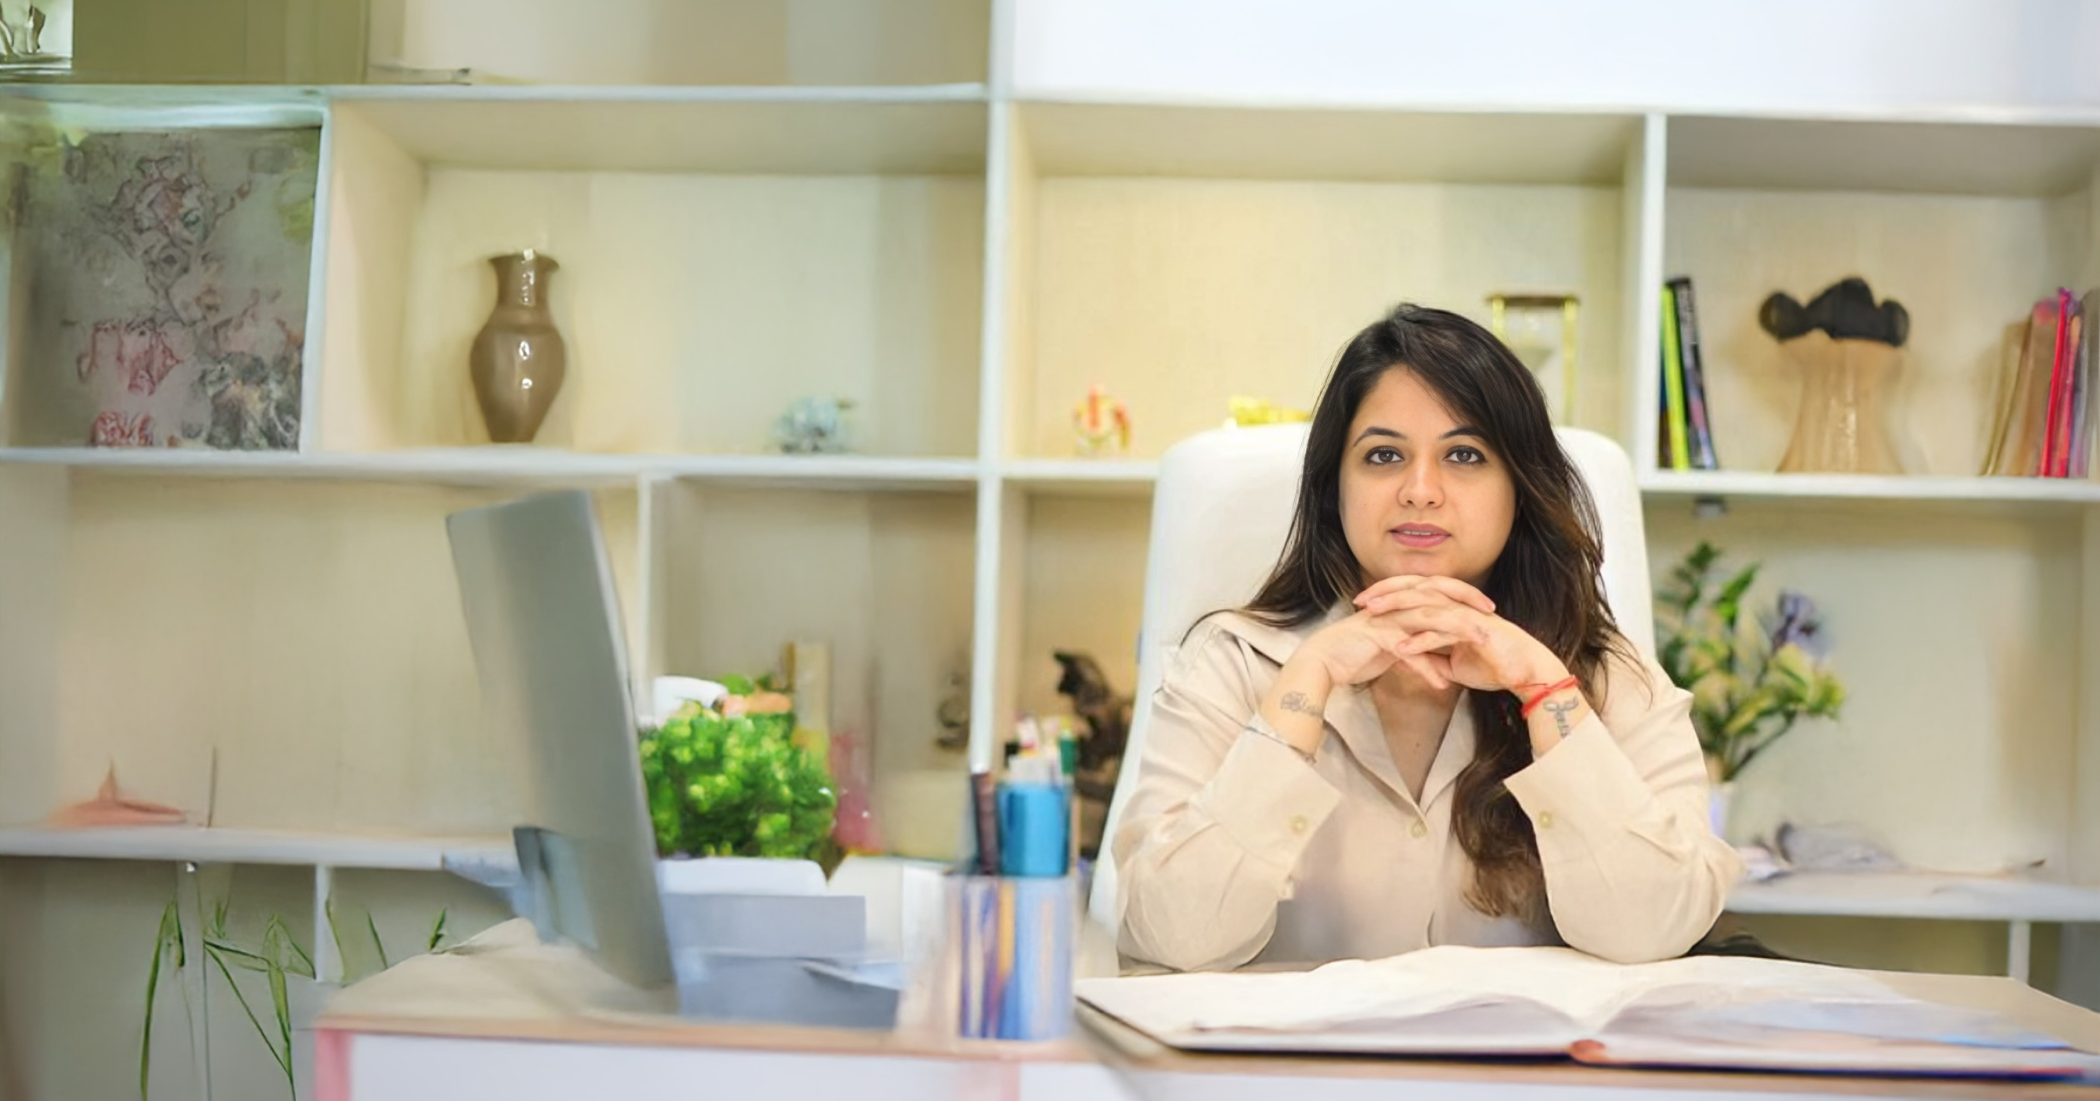
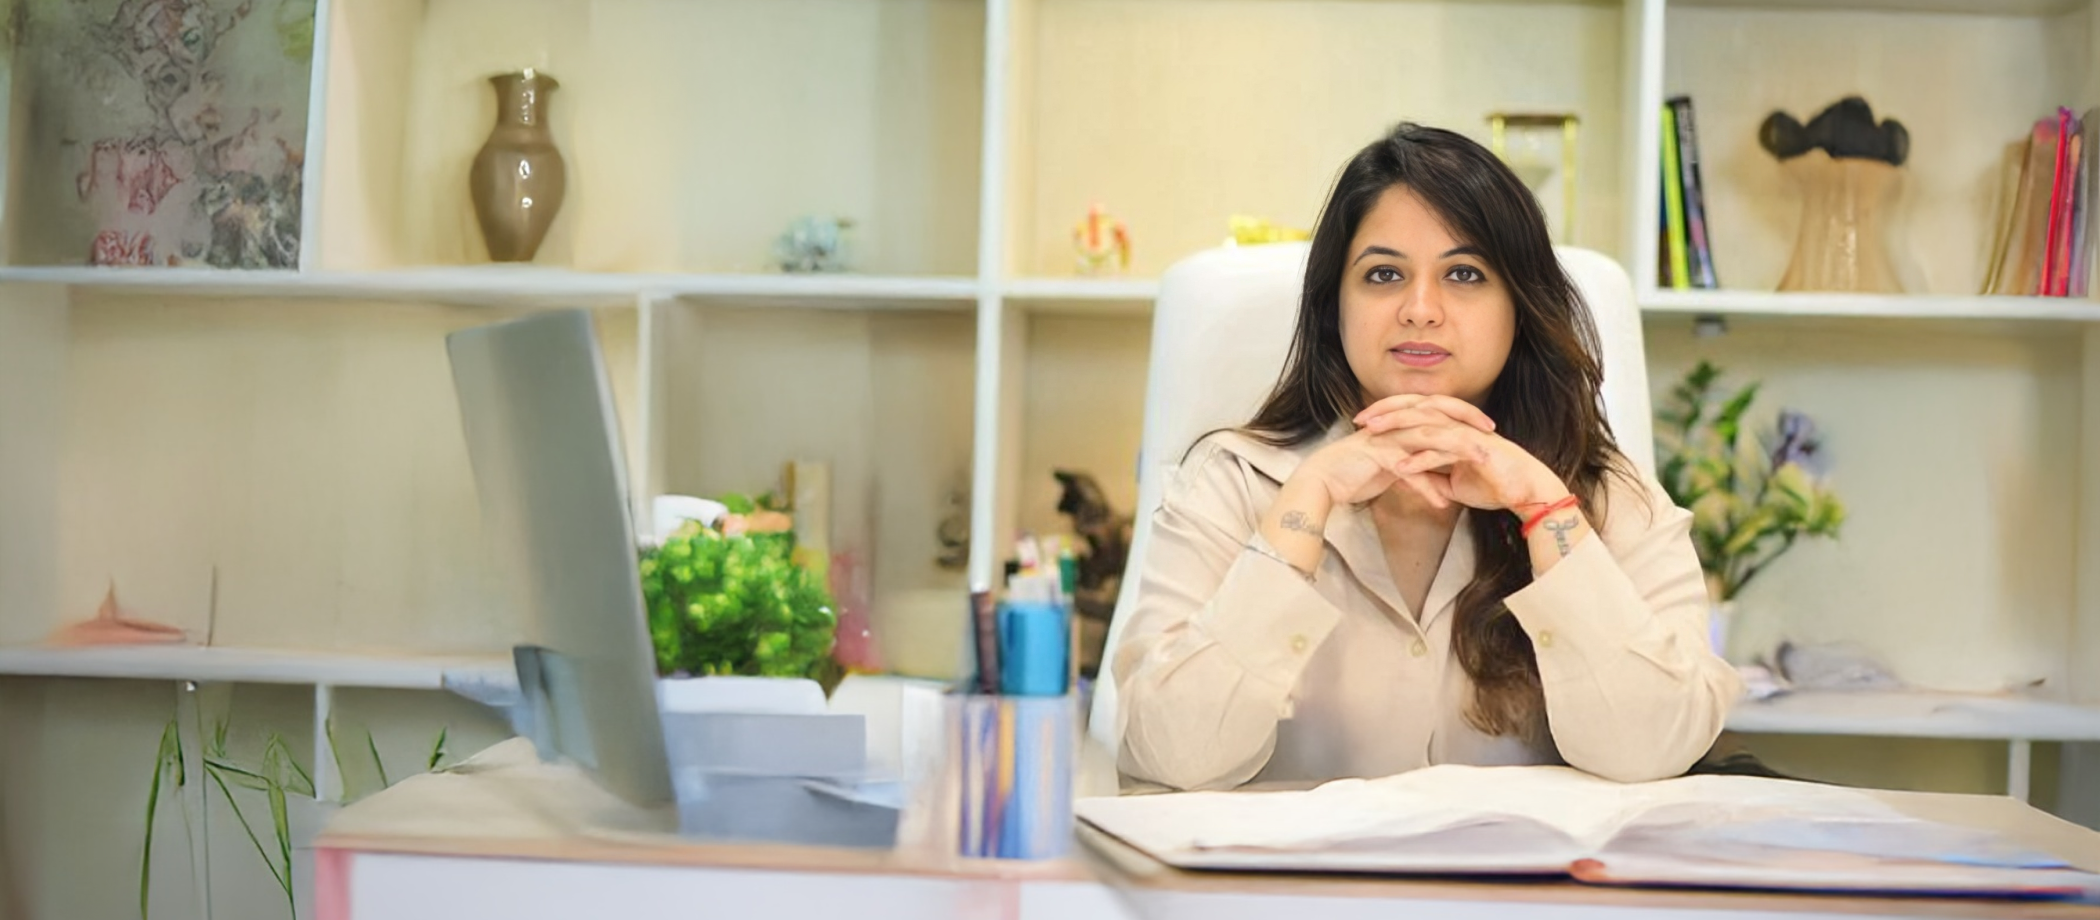
Updated portfolio content

diff --git a/src/app/page.tsx b/src/app/page.tsx
@@ -27,38 +27,54 @@ export default function HomePage() {
       <Header />
       <main className="flex-grow">
 
-        {/* Hero Section */}
-        <section id="home" className="relative h-[80vh] min-h-[600px] w-full text-white">
-          <div className="absolute inset-0 bg-black/50 z-10" />
-            {shayleeHero && (
-                <Image
-                    src={shayleeHero.imageUrl}
-                    alt={shayleeHero.description}
-                    fill
-                    className="object-cover object-center w-full min-h-full"
-                    data-ai-hint={shayleeHero.imageHint}
-                    priority
-                />
-            )}
-          <div className="container relative z-20 flex flex-col items-start justify-center h-full mx-auto px-4 text-left">
-            <div className='flex fex-row space-x-6'>
-              <h1 className="text-4xl md:text-6xl lg:text-7xl font-bold leading-tight font-handwriting mt-2 mb-6">
-             Guiding your 
-            </h1>
-            <h1 className="text-4xl md:text-6xl lg:text-7xl font-bold leading-tight font-handwriting mt-2 mb-6 text-[#cfa34c]">
-             right move.
-            </h1></div>
-            {/* <p className="text-2xl md:text-3xl lg:text-4xl font-handwriting text-accent mt-2 mb-6">
-               Guiding your right move.
-            </p> */}
-            <p className="max-w-xl text-lg text-white/80 mb-10 leading-relaxed">
-              With a decade of experience, I provide clarity and confidence in your property journey. Let's build your future, together.
-            </p>
-            <Button asChild size="lg" className="bg-[#023e2f] text-primary-foreground hover:bg-white/80 hover:text-[#023e2f] group shadow-lg hover:shadow-xl transition-all duration-300 transform hover:scale-105 py-7 px-10 text-lg">
-                <Link href="#contact">Book a Free Consultation <ArrowRight className="ml-2 h-5 w-5 transition-transform group-hover:translate-x-1" /></Link>
-            </Button>
-          </div>
-        </section>
+       {/* Hero Section */}
+<section id="home" className="relative h-[85vh] min-h-[500px] md:h-[80vh] w-full text-white overflow-hidden">
+  {/* The Overlay - Ensuring text is readable on all screen sizes */}
+  <div className="absolute inset-0 bg-black/40 sm:bg-black/50 z-10" />
+  
+  {shayleeHero && (
+    <Image
+      src={shayleeHero.imageUrl}
+      alt={shayleeHero.description}
+      fill
+      priority
+      // 'sizes' tells the browser which image size to download
+      sizes="100vw" 
+      className="object-cover object-[70%_center] md:object-[70%_center] lg:object-center z-0 transition-opacity duration-500"
+      data-ai-hint={shayleeHero.imageHint}
+    />
+  )}
+{/* Container: justify-end moves content to the bottom, items-start keeps it left */}
+  <div className="container relative z-20 flex flex-col items-start justify-end h-full mx-auto px-6 pb-16 md:pb-24 text-left">
+    
+    {/* Headline Stack */}
+    <div className='flex flex-col-2 space-x-2 mb-4 '>
+      <h1 className="text-4xl sm:text-5xl md:text-6xl lg:text-7xl font-bold leading-tight font-handwriting max-[380px]:text-3xl">
+        Guiding your 
+      </h1>
+      <h1 className="text-4xl sm:text-5xl md:text-6xl lg:text-7xl font-bold leading-tight font-handwriting text-[#cfa34c] max-[380px]:text-3xl">
+        right move.
+      </h1>
+    </div>
+
+    {/* Subtext */}
+    <p className="max-w-md md:max-w-xl text-base sm:text-lg text-white/90 mb-8 md:mb-10 leading-tight">
+      With a decade of experience, I provide clarity and confidence in your property journey. Let's build your future, together.
+    </p>
+
+    {/* Button */}
+    <Button 
+      asChild 
+      size="lg" 
+      className="w-full sm:w-auto bg-[#023e2f] text-primary-foreground hover:bg-white/80 hover:text-[#023e2f] group shadow-lg hover:shadow-xl transition-all duration-300 transform hover:scale-105 py-3 md:py-7 px-3 md:px-10 text-lg"
+    >
+      <Link href="#contact" className="flex items-center justify-center">
+        Book a Free Consultation 
+        <ArrowRight className="ml-2 h-5 w-5 transition-transform group-hover:translate-x-1" />
+      </Link>
+    </Button>
+  </div>
+</section>
 
         {/* About Section */}
         <section id="about" className="py-24 bg-secondary/30">
@@ -189,7 +205,7 @@ export default function HomePage() {
             <Card className="max-w-4xl mx-auto p-4 md:p-8 lg:p-12 shadow-2xl bg-background border-border/20">
                 <div className="text-center mb-8">
                     <h2 className="text-3xl md:text-4xl font-bold text-[#023e2f]">Let's Talk Real Estate</h2>
-                    <p className="mt-2 text-sm text-foreground/70 max-w-2xl mx-auto">Ready to make your next move? Fill out the form below or reach out directly. <br />Your journey to the perfect property starts here.</p>
+                    <p className="mt-2 text-sm text-foreground/70 max-w-2xl mx-auto">Ready to make your next move? Fill out the form below or reach out directly. Your journey to the perfect property starts here.</p>
                 </div>
                 <div className="grid md:grid-cols-2 gap-12 items-center">
                     <div>

diff --git a/src/components/header.tsx b/src/components/header.tsx
@@ -33,7 +33,7 @@ export function Header() {
   return (
     <header className={cn(
   "sticky top-0 z-50 w-full transition-all duration-300",
-  isScrolled ? "bg-background/80 backdrop-blur-lg border-b border-border" : "bg-transparent"
+  isScrolled ? "bg-background border-b border-border" : "bg-background"
 )}>
   <div className="container mx-auto px-4 sm:px-6 lg:px-8">
     <div className="flex h-20 items-center justify-between">
@@ -80,7 +80,117 @@ export function Header() {
     </div>
   </div>
   
-  {/* Mobile Menu logic remains same... */}
+    {/* Mobile Menu */}
+
+{/* Mobile Menu Overlay */}
+<div 
+  className={cn(
+    "fixed inset-0 z-50 transition-opacity md:hidden",
+    isMenuOpen ? "opacity-100" : "opacity-0 pointer-events-none"
+  )}
+  onClick={() => setIsMenuOpen(false)}
+/>
+
+{/* Mobile Menu Panel */}
+{/* Backdrop - dimmed background so user can click out to close */}
+{isMenuOpen && (
+  <div 
+    className="fixed inset-0 z-[60] bg-black/50 md:hidden" 
+    onClick={() => setIsMenuOpen(false)} 
+  />
+)}
+
+{/* The Sidebar */}
+<div className={cn(
+  "fixed inset-y-0 left-0 z-[70] w-72 transition-transform duration-300 ease-in-out transform md:hidden",
+  "bg-background border-r border-border", // Solid background, no transparency
+  isMenuOpen ? "translate-x-0" : "-translate-x-full"
+)}>
+  <nav className="flex flex-col h-full p-6">
+    {/* Close Button & Logo Area */}
+    <div className="flex items-center justify-between mb-10">
+      <div className="relative h-20 w-40">
+         <Image src="/assets/logo.jpeg" alt="Logo" fill className="object-contain object-left" />
+      </div>
+      <button onClick={() => setIsMenuOpen(false)} aria-label="Close menu">
+        <X className="h-6 w-6" />
+      </button>
+    </div>
+
+    {/* Navigation Links */}
+    <div className="flex flex-col space-y-6">
+      {navLinks.map((link) => (
+        <Link 
+          key={link.href} 
+          href={link.href} 
+          onClick={() => setIsMenuOpen(false)} 
+          className="text-lg font-bold text-foreground hover:text-primary transition-colors"
+        >
+          {link.label}
+        </Link>
+      ))}
+    </div>
+
+    {/* Bottom Action */}
+    <div className="mt-auto pb-6">
+      <Button asChild className="w-full bg-primary text-primary-foreground">
+        <Link href="#contact" onClick={() => setIsMenuOpen(false)}>Book a Consultation</Link>
+      </Button>
+    </div>
+  </nav>
+</div>
+
+{/* <div className={cn(
+  "fixed opacity-100 inset-y-0 left-0 z-50 w-3/4 max-w-sm bg-background border-r border-border p-6 shadow-xl transition-transform duration-300 ease-in-out transform md:hidden",
+  isMenuOpen ? "translate-x-0" : "-translate-x-full",
+  isScrolled 
+    ? "bg-background border-b border-border shadow-sm" 
+    : "bg-background border-b border-transparent"
+)}>
+  <div className="flex flex-col h-full">
+    <div className="flex items-center justify-between mb-8">
+      
+      <span className="text-xl font-bold text-primary font-handwriting">Shaylee</span>
+      <button onClick={() => setIsMenuOpen(false)} className="p-2">
+        <X className="h-6 w-6" />
+      </button>
+    </div>
+
+    <nav className="flex flex-col space-y-6">
+      {navLinks.map((link) => (
+        <Link 
+          key={link.href} 
+          href={link.href} 
+          onClick={() => setIsMenuOpen(false)} 
+          className="text-xl font-semibold text-foreground/80 hover:text-primary transition-colors"
+        >
+          {link.label}
+        </Link>
+      ))}
+      
+      <Button asChild size="lg" className="w-full mt-4 bg-primary text-primary-foreground">
+        <Link href="#contact" onClick={() => setIsMenuOpen(false)}>
+          Book a Consultation
+        </Link>
+      </Button>
+    </nav>
+  </div>
+</div> */}
+
+      {/* {isMenuOpen && (
+        <div className="md:hidden bg-background border-t border-border">
+          <nav className="flex flex-col space-y-4 p-4">
+            {navLinks.map((link) => (
+                <Link key={link.href} href={link.href} onClick={() => setIsMenuOpen(false)} className="block text-lg font-medium text-foreground/80 hover:text-primary transition-colors">
+                    {link.label}
+                </Link>
+            ))}
+            <Button asChild size="lg" className="w-full mt-4 bg-primary text-primary-foreground hover:bg-primary/90">
+                <Link href="#contact" onClick={() => setIsMenuOpen(false)}>Book a Consultation</Link>
+             </Button>
+          </nav>
+        </div>
+      )} */}
 </header>
   );
 }

diff --git a/src/components/enquiry-form.tsx b/src/components/enquiry-form.tsx
@@ -83,7 +83,7 @@ export default function ContactSection1() {
                   {errors.phone && <p className="text-xs text-red-500">{errors.phone.message as string}</p>}
                 </div>
             {/* Email Field */}
-                    <div className="space-y-1  md:col-span-2">
+                    <div className="space-y-1 col-span-2 ">
                       <Input 
                         {...register("email", { 
                           required: "Email is required",

diff --git a/src/app/actions/submit-callback.ts b/src/app/actions/submit-callback.ts
@@ -51,7 +51,7 @@ export async function submitCallbackForm(formData: FormData) {
 
     await transporter.sendMail({
       from: `"Lead generated" <${process.env.EMAIL_USER}>`,
-      to: "abhay240103@gmail.com", // The recipient address you requested
+      to: "shailyrealtorlife@gmail.com", // The recipient address you requested
       replyTo: rawData.email, // Allows you to just hit 'Reply' in Gmail
       subject: `🚀 New Lead: ${rawData.name}`,
       html: htmlBody,
